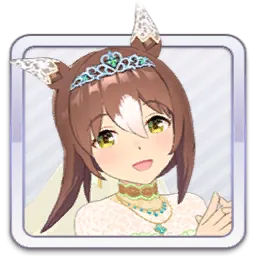
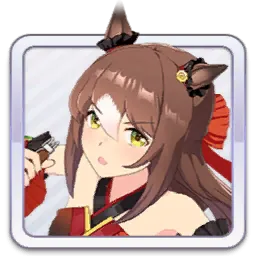
fix: 育成 chr_icon キーを race_dress_id 正本に統一

diff --git a/app/js/cardAssets.js b/app/js/cardAssets.js
@@ -15,7 +15,7 @@ const DEFAULT_STYLE = {
 };
 
 /** 画像 URL のキャッシュ回避（追加前の 404 が残るのを防ぐ。版上げ時に更新） */
-const ASSET_CACHE_BUST = "0.1.16";
+const ASSET_CACHE_BUST = "0.1.17";
 
 /** @param {string} [type] */
 export function getSupportTypeStyle(type) {

diff --git a/scripts/extract_card_assets.py b/scripts/extract_card_assets.py
@@ -2,9 +2,8 @@
 
 サポカは support_thumb（512×512・レア枠焼き付き）を抽出。import 側で縦合成する。
 育成は chr_icon のみ（piece_icon 不使用）。
-  1) chr_icon_{cardId}
-  2) race_dress_id（他育成カードIDと一致する場合はスキップ）
-  3) 同キャラ dress_data の未使用 chr_icon キー
+正本キーは card_rarity_data.race_dress_id（カード名と衣装名が一致する）。
+race が無い特殊カードのみ card_id / 未使用 dress へフォールバック。
 """
 from __future__ import annotations
 
@@ -251,19 +250,16 @@ def resolve_chr_icon_key(
 ) -> tuple[int | None, str]:
     """カードに対応する chr_icon キーを返す。(key, via)
 
-    piece_icon は使わない。
+    正本: race_dress_id（text_data のカード名⇔衣装名が一致する）。
+    piece_icon / card_id 優先は使わない（後発衣装が card ID を再利用するため）。
     """
+    race = race_dress_id(master_conn, card_id)
+    if race is not None and meta_has_chr_icon(meta_conn, chara_id, race):
+        return race, "race_dress"
+
+    # 特殊カード（91xxxxx 等）: race が無い場合のみフォールバック
     if meta_has_chr_icon(meta_conn, chara_id, card_id):
         return card_id, "card_id"
-
-    race = race_dress_id(master_conn, card_id)
-    # 他育成カードの ID と一致する race_dress は「前作衣装の流用」なのでスキップ
-    if (
-        race is not None
-        and race not in sibling_card_ids
-        and meta_has_chr_icon(meta_conn, chara_id, race)
-    ):
-        return race, "race_dress"
 
     dresses = dress_ids_from_dress_data(master_conn, chara_id)
     claimed = {sid for sid in sibling_card_ids if meta_has_chr_icon(meta_conn, chara_id, sid)}

diff --git a/docs/ops/ASSETS.md b/docs/ops/ASSETS.md
@@ -25,7 +25,7 @@ UI は `app/js/cardAssets.js` が URL を組み立てる。画像が無い場合
 ## 同梱範囲
 
 - 優先サポカ **40種** → `assets/supports/{id}.webp`
-- 育成ウマ娘 **全カード**（`chr_icon` のみ。card_id → race_dress → 未使用 dress）→ `assets/characters/{id}.webp`
+- 育成ウマ娘 **全カード**（`chr_icon` キー = `race_dress_id`）→ `assets/characters/{id}.webp`
 - タイプ印 **6種** — 実行時 CDN 非依存
 - UI 背景 `assets/ui/uma-world.png` — 横長イラスト（空＋芝）。旧 U-tools 縦長 webp は使わない
 - 目安サイズ: サポカ **240×320**・キャラ長辺 256px・WebP
@@ -86,7 +86,7 @@ npm run assets:audit-dupes   # 別カードなのに同一 webp が無いか（0
 | 種別 | meta 名 |
 |------|---------|
 | サポカ縦カード元 | `supportcard/support{ID}/support_thumb_{ID}` |
-| 育成カード | `chr_icon` のみ（`piece_icon` 不使用）。キー: card_id → race_dress（他カードIDと一致ならスキップ）→ 同キャラ未使用 dress |
+| 育成カード | `chr_icon` のみ（`piece_icon` 不使用）。キー正本は `card_rarity_data.race_dress_id`（カード名⇔衣装名一致）。race 無しの特殊カードのみフォールバック |
 
 import 時のサポカ後処理（`scripts/support_vertical_card.py`）:
 

diff --git a/docs/CHANGELOG.md b/docs/CHANGELOG.md
@@ -17,7 +17,7 @@
 
 ### 修正
 
-- **育成アイコン重複**: 3着目などで `chr_icon_{cardId}` が無いカードを、別 dress ID の `chr_icon` に正しく割当（`piece_icon` は不使用）。通常カードの重複は解消。特殊 `91xxxxx` 2枚のみ固有アイコン無しで共有
+- **育成アイコン重複**: `chr_icon` キーを `race_dress_id` 正本に統一（カード名⇔衣装名一致。`piece_icon` 不使用）。オグリ等の 2↔3 入れ替えを解消。特殊 `91xxxxx` 2枚のみ固有 race 無し
 - **カードピッカー**: 選択中の二重枠（ピンク outline＋金）を金枠＋バッジのみに整理。検索は controls 帯へ再構成しグローバル input スタイルの干渉を解消
 - **結果枠の角丸リム**: DOM を紫クロム＋白本体の二段構成に整理。白いパネル上への負マージン載せをやめ、角の白い縁を解消
 - **編成枠の角丸リム**: 同様に `.app-header`（紫）＋ `.deck-body`（白）へ整理

diff --git a/docs/TODO.md b/docs/TODO.md
@@ -40,7 +40,7 @@
 
 ## 現在フォーカス（1行）
 
-**ピッカー実機確認** — 育成アイコン（水着等）が衣装ごとに分かれているか確認
+**ピッカー実機確認** — オグリ等の衣装順（名前とアイコン）が一致しているか
 
 ---
 
@@ -84,6 +84,7 @@
 
 ## 最近完了（直近のみ残す）
 
+- [x] 2026-08-02 **育成アイコン race_dress 正本** — カード名⇔衣装名一致。オグリ 2↔3 入れ替え解消
 - [x] 2026-08-02 **育成アイコン重複修正** — `chr_icon` の dress キー割当（piece_icon 不使用）。監査で通常カード重複0
 - [x] 2026-08-02 **カードピッカー刷新**（backlog #4）— R3＋R1 ハイブリッド。トグル絞込・固定棚高・選択バッジ
 - [x] 2026-08-02 **スプリット左「カード」枠上ラベル削除** — 不要（編成＋枠＋詳細見出しで足りる）。見切れ対策のCSSいじりは撤回
